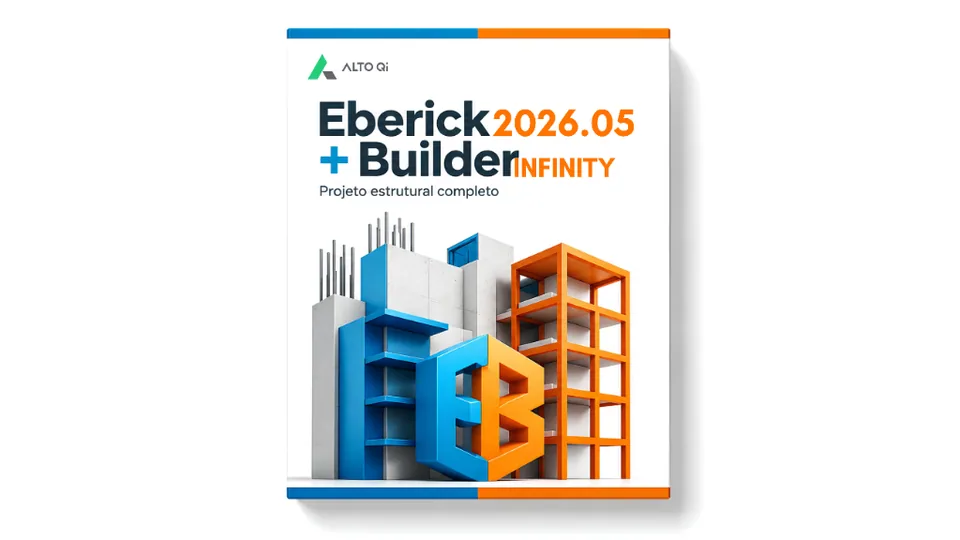
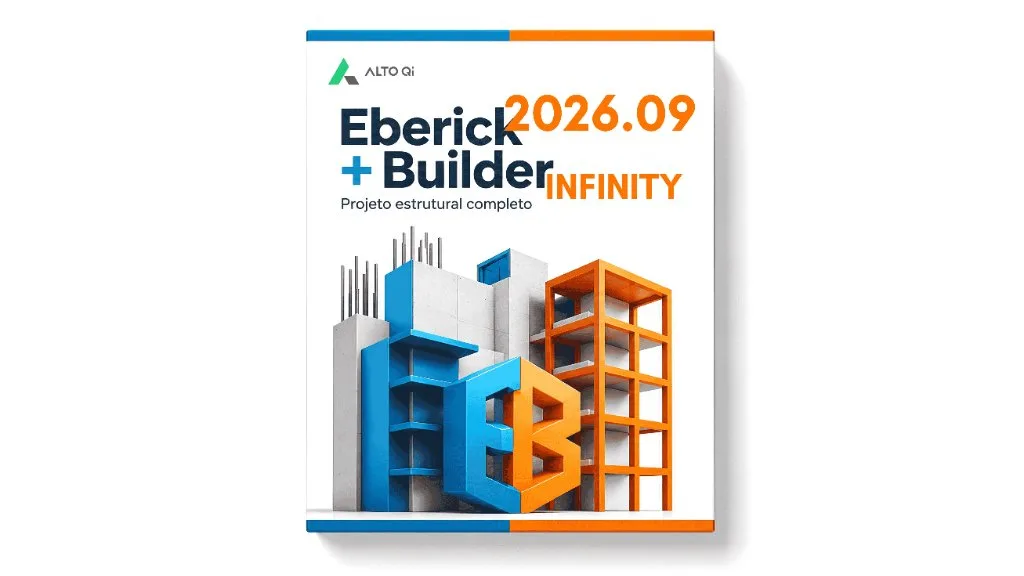
feat: atualizar AltoQi Eberick + Builder para 2026.09 Infinity e preco R$ 507,90

diff --git a/src/components/Header.tsx b/src/components/Header.tsx
@@ -22,6 +22,7 @@ import { useCart } from '../context/CartContext';
 import { useCurrency, CURRENCIES, type CurrencyCode } from '../context/CurrencyContext';
 import { useLanguage } from '../context/LanguageContext';
 import { products } from '../data/products';
+import { catalogLink } from '../data/catalogNavigation';
 import { SantaHat } from './ChristmasDecorations';
 
 /* ============================================================================
@@ -156,11 +157,11 @@ const MEGA_MENU_CATEGORIES: MegaMenuCategory[] = [
     id: 'microsoft-utilitarios',
     label: 'Microsoft',
     icon: <LayoutGrid className="w-4 h-4 text-slate-700 shrink-0" />,
-    categoryFilter: 'Escritório e Produtividade',
+    categoryFilter: 'Microsoft',
     columns: [
       {
         title: 'Microsoft Office & Windows',
-        seeAllLink: '/catalogo?categoria=Escrit%C3%B3rio+e+Produtividade',
+        seeAllLink: catalogLink('Microsoft Office & Windows'),
         items: [
           { name: 'Office 2024 Professional Plus (Win)', slug: 'office-2024-professional-plus' },
           { name: 'Office 2024 LTSC Professional (Mac)', slug: 'office-2024-professional-mac' },
@@ -170,7 +171,7 @@ const MEGA_MENU_CATEGORIES: MegaMenuCategory[] = [
       },
       {
         title: 'PDF, Virtualização & Dados',
-        seeAllLink: '/catalogo?categoria=Escrit%C3%B3rio+e+Produtividade',
+        seeAllLink: catalogLink('PDF, Virtualização & Dados'),
         items: [
           { name: 'Adobe Acrobat Pro DC 2026', slug: 'adobe-acrobat-pro-dc-2026' },
           { name: 'Parallels Desktop 27 (macOS)', slug: 'parallels-desktop-27' },
@@ -185,11 +186,11 @@ const MEGA_MENU_CATEGORIES: MegaMenuCategory[] = [
     id: 'multimidia-design',
     label: 'Multimídia',
     icon: <Video className="w-4 h-4 text-slate-700 shrink-0" />,
-    categoryFilter: 'Design e Criatividade',
+    categoryFilter: 'Multimídia',
     columns: [
       {
         title: 'Design Gráfico & Vetor',
-        seeAllLink: '/catalogo?categoria=Design+e+Criatividade',
+        seeAllLink: catalogLink('Design Gráfico & Vetor'),
         items: [
           { name: 'CorelDRAW Graphics Suite (X7 a 2026)', slug: 'coreldraw-graphics-suite-2026' },
           { name: 'Adobe Photoshop 2026', slug: 'adobe-photoshop-2026' },
@@ -199,13 +200,13 @@ const MEGA_MENU_CATEGORIES: MegaMenuCategory[] = [
       },
       {
         title: 'Edição de Vídeo & Áudio',
-        seeAllLink: '/catalogo?categoria=Design+e+Criatividade',
+        seeAllLink: catalogLink('Edição de Vídeo & Áudio'),
         items: [
           { name: 'Adobe Premiere Pro 2026', slug: 'adobe-premiere-pro-2026' },
           { name: 'Adobe After Effects 2026', slug: 'adobe-after-effects-2026' },
           { name: 'Wondershare Filmora 15', slug: 'filmora-15' },
           { name: 'TechSmith Camtasia 2026', slug: 'camtasia-2026' },
-          { name: 'FL Studio Producer Edition 2025', slug: 'fl-studio-2025' },
+          { name: 'FL Studio Producer Edition 2025', slug: 'fl-studio-2025-producer-edition' },
         ],
       },
     ],
@@ -219,11 +220,11 @@ const MEGA_MENU_CATEGORIES: MegaMenuCategory[] = [
     id: 'marcenaria-especializados',
     label: 'Marcenaria',
     icon: <Wrench className="w-4 h-4 text-slate-700 shrink-0" />,
-    categoryFilter: 'Marcenaria e Móveis Planejados',
+    categoryFilter: 'Marcenaria',
     columns: [
       {
         title: 'Marcenaria & Móveis Planejados',
-        seeAllLink: '/catalogo?categoria=Marcenaria+e+M%C3%B3veis+Planejados',
+        seeAllLink: catalogLink('Marcenaria & Móveis Planejados'),
         items: [
           { name: 'Promob Plus (2024 Enterprise e 2026 Pro)', slug: 'promob-plus-professional-2026' },
           { name: 'Vectric Aspire Pro 12.5 (CNC Router)', slug: 'vectric-aspire-pro-12-5' },
@@ -233,7 +234,7 @@ const MEGA_MENU_CATEGORIES: MegaMenuCategory[] = [
       },
       {
         title: 'Elétrica, Odonto & Engenharia',
-        seeAllLink: '/catalogo',
+        seeAllLink: catalogLink('Elétrica, Odonto & Engenharia'),
         items: [
           { name: 'Proteus 9 Professional Design Suite', slug: 'proteus-9-professional' },
           { name: 'ExoCAD DentalCAD 3.1 Rijeka', slug: 'exocad-dentalcad-31-rijeka' },
@@ -254,11 +255,11 @@ const MEGA_MENU_CATEGORIES: MegaMenuCategory[] = [
     id: 'arquitetura-cad',
     label: 'Arquitetura - CAD 3D',
     icon: <Compass className="w-4 h-4 text-slate-700 shrink-0" />,
-    categoryFilter: 'Engenharia e Arquitetura',
+    categoryFilter: 'Arquitetura - CAD 3D',
     columns: [
       {
         title: 'Modelagem CAD & BIM',
-        seeAllLink: '/catalogo?categoria=Engenharia+e+Arquitetura',
+        seeAllLink: catalogLink('Modelagem CAD & BIM'),
         items: [
           { name: 'Autodesk AutoCAD (2019 a 2027)', slug: 'autocad-2027-windows' },
           { name: 'Autodesk Revit (2024 a 2027)', slug: 'revit-2027' },
@@ -270,9 +271,9 @@ const MEGA_MENU_CATEGORIES: MegaMenuCategory[] = [
       },
       {
         title: 'Cálculo, Estruturas & Render',
-        seeAllLink: '/catalogo?categoria=Engenharia+e+Arquitetura',
+        seeAllLink: catalogLink('Cálculo, Estruturas & Render'),
         items: [
-          { name: 'AltoQi Eberick + Builder 2025', slug: 'eberick-builder-2025' },
+          { name: 'AltoQi Eberick + Builder (2024 a 2026)', slug: 'eberick-builder-2025' },
           { name: 'CYPE Completo (2025.d e 2026.a)', slug: 'cypecad-2026' },
           { name: 'SolidWorks 2026 Premium', slug: 'solidworks-2026' },
           { name: 'Tekla Structures 2026', slug: 'tekla-structures-2026' },
@@ -751,7 +752,7 @@ const HeaderContent: React.FC = () => {
                       className="relative shrink-0"
                     >
                       <Link
-                        to={`/catalogo?categoria=${encodeURIComponent(cat.categoryFilter)}`}
+                        to={catalogLink(cat.categoryFilter)}
                         className={`flex items-center gap-1.5 px-3 py-1.5 rounded-full text-[13px] font-semibold whitespace-nowrap transition-all ${
                           isCatOpen
                             ? 'bg-white text-[#0b5ed7] shadow-2xs'
@@ -1004,9 +1005,9 @@ const HeaderContent: React.FC = () => {
               <p className="text-[11px] font-extrabold uppercase tracking-wider text-slate-400">
                 {localize("Categorias")}</p>
               {MEGA_MENU_CATEGORIES.map((cat) => (
+                <div key={cat.id}>
                 <Link
-                  key={cat.id}
-                  to={`/catalogo?categoria=${encodeURIComponent(cat.categoryFilter)}`}
+                  to={catalogLink(cat.categoryFilter)}
                   className="flex items-center justify-between py-2 text-sm font-semibold text-slate-700 hover:text-[#0b5ed7] border-b border-slate-50"
                 >
                   <span className="flex items-center gap-2">
@@ -1015,6 +1016,8 @@ const HeaderContent: React.FC = () => {
                   </span>
                   <ChevronRight className="w-4 h-4 text-slate-400" />
                 </Link>
+                {cat.columns.map(col => <Link key={col.title} to={col.seeAllLink} className="block py-2 pl-6 text-xs text-slate-600 hover:text-blue-600">{localize(getMegaColumnTitle(col.title, language))}</Link>)}
+                </div>
               ))}
             </div>
 

diff --git a/src/data/products.ts b/src/data/products.ts
@@ -61,6 +61,8 @@ export const CATEGORIES = [
   'Engenharia e Arquitetura',
   'Design e Criatividade',
   'Escritório e Produtividade',
+  'PDF, Virtualização & Dados',
+  'Chaves de Ativação',
   'Marcenaria e Móveis Planejados',
   'Projetos Elétricos e Eletrônicos',
   'Odontologia e CAD Dental'
@@ -578,9 +580,9 @@ export const products: Product[] = [
     name: 'AltoQi Eberick + Builder',
     category: 'Engenharia e Arquitetura',
     compatibility: 'Windows',
-    version: '2024.12 Plena, 2025.04 e 2026.05 Infinity',
-    description: 'Solução nacional integrada para cálculo estrutural e projetos de instalações BIM. Disponível nas versões Plena 2024.12, Infinity 2025.04 e a nova Infinity 2026.05.',
-    longDescription: 'O AltoQi Eberick + Builder é o combo definitivo de ferramentas para engenharia civil no Brasil. O Eberick realiza análise estrutural e detalhamento (Concreto Armado, Alvenaria Estrutural, Pré-moldados, Perfis metálicos e Concreto protendido). O Builder cuida das instalações prediais (Elétrico, Hidráulico, Sanitário, SPDA, Incêndio, Gás e Climatização). Escolha entre a versão Plena 2024.12, Infinity 2025.04 ou a nova Infinity 2026.05 com Construtor de Armadura incluso.',
+    version: '2024.12 Plena, 2025.04 e 2026.09 Infinity',
+    description: 'Solução nacional integrada para cálculo estrutural e projetos de instalações BIM. Disponível nas versões Plena 2024.12, Infinity 2025.04 e a nova Infinity 2026.09.',
+    longDescription: 'O AltoQi Eberick + Builder é o combo definitivo de ferramentas para engenharia civil no Brasil. O Eberick realiza análise estrutural e detalhamento (Concreto Armado, Alvenaria Estrutural, Pré-moldados, Perfis metálicos e Concreto protendido). O Builder cuida das instalações prediais (Elétrico, Hidráulico, Sanitário, SPDA, Incêndio, Gás e Climatização). Escolha entre a versão Plena 2024.12, Infinity 2025.04 ou a nova Infinity 2026.09 com Construtor de Armadura incluso.',
     price: 227.90,
     originalPrice: 449.00,
     checkoutUrl: 'https://pay.cakto.com.br/33tbjgj',
@@ -612,9 +614,9 @@ export const products: Product[] = [
       },
       {
         quantity: 2026,
-        label: 'Versão Infinity 2026.05',
-        price: 627.90,
-        originalPrice: 949.00,
+        label: 'Versão Infinity 2026.09',
+        price: 507.90,
+        originalPrice: 849.00,
         checkoutUrl: 'https://pay.cakto.com.br/8x4fckr',
         driveUrl: 'https://drive.google.com/drive/folders/1Agg7qd7JFCAKsfFdgsoEUnGDMgDnZ_B0?usp=drive_link',
         downloadSlug: 'eberick-builder-2026-infinity',
@@ -624,7 +626,7 @@ export const products: Product[] = [
     features: [
       'Eberick: Concreto, Alvenaria, Pré-moldados, Metálicos e Protendido',
       'Builder: Elétrico, Hidráulico, Sanitário, SPDA, Incêndio, Gás e Clima',
-      'Opção Plena 2024.12 ou Infinity 2025.04 com Construtor de armadura',
+      'Opções Plena 2024.12, Infinity 2025.04 ou Infinity 2026.09 com Construtor de armadura',
       'Acesso vitalício para uso ilimitado',
       'Instalação assistida inclusa',
       'Entrega automática no e-mail após o pagamento',
@@ -1687,7 +1689,7 @@ export const products: Product[] = [
     id: 'parallels_desktop_26',
     slug: 'parallels-desktop-27',
     name: 'Parallels Desktop',
-    category: 'Escritório e Produtividade',
+    category: 'PDF, Virtualização & Dados',
     compatibility: 'macOS',
     version: '26 Standard & 27 Business Edition',
     description: 'Execute Windows e outras aplicações de PC diretamente no seu Mac sem reiniciar.',
@@ -1775,7 +1777,7 @@ export const products: Product[] = [
     id: 'pdfelement_12',
     slug: 'pdfelement-12',
     name: 'Wondershare PDFelement Professional 12',
-    category: 'Escritório e Produtividade',
+    category: 'PDF, Virtualização & Dados',
     compatibility: 'Windows',
     version: '12.0.2',
     description: 'Editor de PDF completo e profissional para editar, converter, assinar e ler arquivos PDF.',
@@ -1804,7 +1806,7 @@ export const products: Product[] = [
     id: 'wondershare_recoverit_13',
     slug: 'wondershare-recoverit-13',
     name: 'Wondershare Recoverit 13',
-    category: 'Escritório e Produtividade',
+    category: 'PDF, Virtualização & Dados',
     compatibility: 'Windows',
     version: '13.0.0',
     description: 'Software profissional de recuperação de dados e restauração de arquivos excluídos.',
@@ -1981,7 +1983,7 @@ export const products: Product[] = [
     keywords: ['adobe', 'acrobat', 'pro', 'dc', 'pdf', 'editor', 'leitor', 'mac', '2024', '2025', '2026'],
     slug: 'adobe-acrobat-pro-dc-2026',
     name: 'Adobe Acrobat Pro DC',
-    category: 'Design e Criatividade',
+    category: 'PDF, Virtualização & Dados',
     compatibility: 'Windows e macOS',
     version: '2026 (Windows) | 2025 (macOS)',
     description: 'A solução completa em PDF. Crie, edite, converta e assine documentos com a ferramenta oficial da Adobe para Windows (2026) e Mac (2025).',
@@ -2150,6 +2152,9 @@ export function getProductBySlug(slug: string): Product | undefined {
   }
   if (slug === 'visus' || slug === 'altoqi-visus' || slug === 'visus-2026') {
     return products.find(p => p.slug === 'altoqi-visus-2026');
+  }
+  if (slug === 'eberick' || slug === 'eberick-builder' || slug === 'eberick-builder-2026' || slug === 'eberick-2026' || slug === 'eberick-2025') {
+    return products.find(p => p.slug === 'eberick-builder-2025');
   }
   if (slug === 'cypecad-2027' || slug === 'cype-2027') {
     return products.find(p => p.slug === 'cypecad-2026');

diff --git a/api/_products.ts b/api/_products.ts
@@ -375,17 +375,17 @@ export const products: Product[] = [
     name: 'AltoQi Eberick + Builder',
     category: 'Engenharia e Arquitetura',
     compatibility: 'Windows',
-    version: '2024.12 Plena e 2025.04 Infinity',
-    description: 'Solução nacional integrada para cálculo estrutural e projetos de instalações BIM. Disponível nas versões Plena 2024.12 e Infinity 2025.04 com Construtor de Armadura.',
-    longDescription: 'O AltoQi Eberick + Builder é o combo definitivo de ferramentas para engenharia civil no Brasil. O Eberick realiza análise estrutural e detalhamento (Concreto Armado, Alvenaria Estrutural, Pré-moldados, Perfis metálicos e Concreto protendido). O Builder cuida das instalações prediais (Elétrico, Hidráulico, Sanitário, SPDA, Incêndio, Gás e Climatização). Escolha entre a versão Plena 2024.12 ou a versão Infinity 2025.04 com Construtor de Armadura incluso.',
+    version: '2024.12 Plena, 2025.04 e 2026.09 Infinity',
+    description: 'Solução nacional integrada para cálculo estrutural e projetos de instalações BIM. Disponível nas versões Plena 2024.12, Infinity 2025.04 e a nova Infinity 2026.09.',
+    longDescription: 'O AltoQi Eberick + Builder é o combo definitivo de ferramentas para engenharia civil no Brasil. O Eberick realiza análise estrutural e detalhamento (Concreto Armado, Alvenaria Estrutural, Pré-moldados, Perfis metálicos e Concreto protendido). O Builder cuida das instalações prediais (Elétrico, Hidráulico, Sanitário, SPDA, Incêndio, Gás e Climatização). Escolha entre a versão Plena 2024.12, Infinity 2025.04 ou a nova Infinity 2026.09 com Construtor de Armadura incluso.',
     price: 227.90,
     originalPrice: 449.00,
     checkoutUrl: 'https://pay.cakto.com.br/33tbjgj',
-    imageUrl: '/images/products/eberick-builder-2025.png',
+    imageUrl: '/images/products/eberick-builder-2026-infinity.webp',
     gallery: [
-      '/images/products/eberick-builder-2025.png',
-      '/images/products/eberick-builder-2024-plena.png',
-      '/images/products/eberick-builder-2025-infinity.png'
+      '/images/products/eberick-builder-2026-infinity.webp',
+      '/images/products/eberick-builder-2025-infinity.webp',
+      '/images/products/eberick-builder-2024-plena.webp'
     ],
     licenseOptions: [
       {
@@ -394,8 +394,9 @@ export const products: Product[] = [
         price: 227.90,
         originalPrice: 449.00,
         checkoutUrl: 'https://pay.cakto.com.br/33tbjgj',
+        driveUrl: 'https://drive.google.com/drive/folders/1AOD3jP7Qkyk5eqx65uBEQMyCYdI1dfNn?usp=drive_link',
         downloadSlug: 'eberick-builder-2024-plena',
-        imageUrl: '/images/products/eberick-builder-2024-plena.png'
+        imageUrl: '/images/products/eberick-builder-2024-plena.webp'
       },
       {
         quantity: 2025,
@@ -404,13 +405,23 @@ export const products: Product[] = [
         originalPrice: 549.00,
         checkoutUrl: 'https://pay.cakto.com.br/7jw8eyi_847943',
         downloadSlug: 'eberick-builder-2025',
-        imageUrl: '/images/products/eberick-builder-2025-infinity.png'
+        imageUrl: '/images/products/eberick-builder-2025-infinity.webp'
+      },
+      {
+        quantity: 2026,
+        label: 'Versão Infinity 2026.09',
+        price: 507.90,
+        originalPrice: 849.00,
+        checkoutUrl: 'https://pay.cakto.com.br/8x4fckr',
+        driveUrl: 'https://drive.google.com/drive/folders/1Agg7qd7JFCAKsfFdgsoEUnGDMgDnZ_B0?usp=drive_link',
+        downloadSlug: 'eberick-builder-2026-infinity',
+        imageUrl: '/images/products/eberick-builder-2026-infinity.webp'
       }
     ],
     features: [
       'Eberick: Concreto, Alvenaria, Pré-moldados, Metálicos e Protendido',
       'Builder: Elétrico, Hidráulico, Sanitário, SPDA, Incêndio, Gás e Clima',
-      'Opção Plena 2024.12 ou Infinity 2025.04 com Construtor de armadura',
+      'Opções Plena 2024.12, Infinity 2025.04 ou Infinity 2026.09 com Construtor de armadura',
       'Acesso vitalício para uso ilimitado',
       'Instalação assistida inclusa',
       'Entrega automática no e-mail após o pagamento',
@@ -1734,6 +1745,9 @@ export const products: Product[] = [
 ];
 
 export function getProductBySlug(slug: string): Product | undefined {
+  if (slug === 'eberick' || slug === 'eberick-builder' || slug === 'eberick-builder-2026' || slug === 'eberick-2026' || slug === 'eberick-2025') {
+    return products.find(p => p.slug === 'eberick-builder-2025');
+  }
   if (slug === 'autocad-2027-macos' || slug === 'autodesk-autocad' || slug === 'autocad') {
     return products.find(p => p.slug === 'autocad-2027-windows');
   }

diff --git a/api/_downloads.ts b/api/_downloads.ts
@@ -55,6 +55,7 @@ export const DOWNLOAD_LINKS: Record<string, string> = {
   'eberick-builder-2024-plena': 'https://drive.google.com/drive/folders/1AOD3jP7Qkyk5eqx65uBEQMyCYdI1dfNn?usp=drive_link',
   'eberick-builder-2025': 'https://drive.google.com/open?id=10KvPsuZ4coEQ6RIirgdVnvr4wewhNrrS',
   'eberick-builder-2025-infinity': 'https://drive.google.com/open?id=10KvPsuZ4coEQ6RIirgdVnvr4wewhNrrS',
+  'eberick-builder-2026-infinity': 'https://drive.google.com/drive/folders/1Agg7qd7JFCAKsfFdgsoEUnGDMgDnZ_B0?usp=drive_link',
   'promob-plus-enterprise-2024': 'https://drive.google.com/open?id=1hUueGl_fSGuGTotnA0VXC_4cobtByGMO',
   'sketchup-pro-2026-macos': 'https://drive.google.com/open?id=1gd1UbFonFAHG3bemYyrxP4byrlHXZhQD',
   'sketchup-pro-2024-macos': 'https://drive.google.com/drive/folders/15_oYDzLdec_Mr-XycqvmYt1vsxGAy3xD?usp=drive_link',
